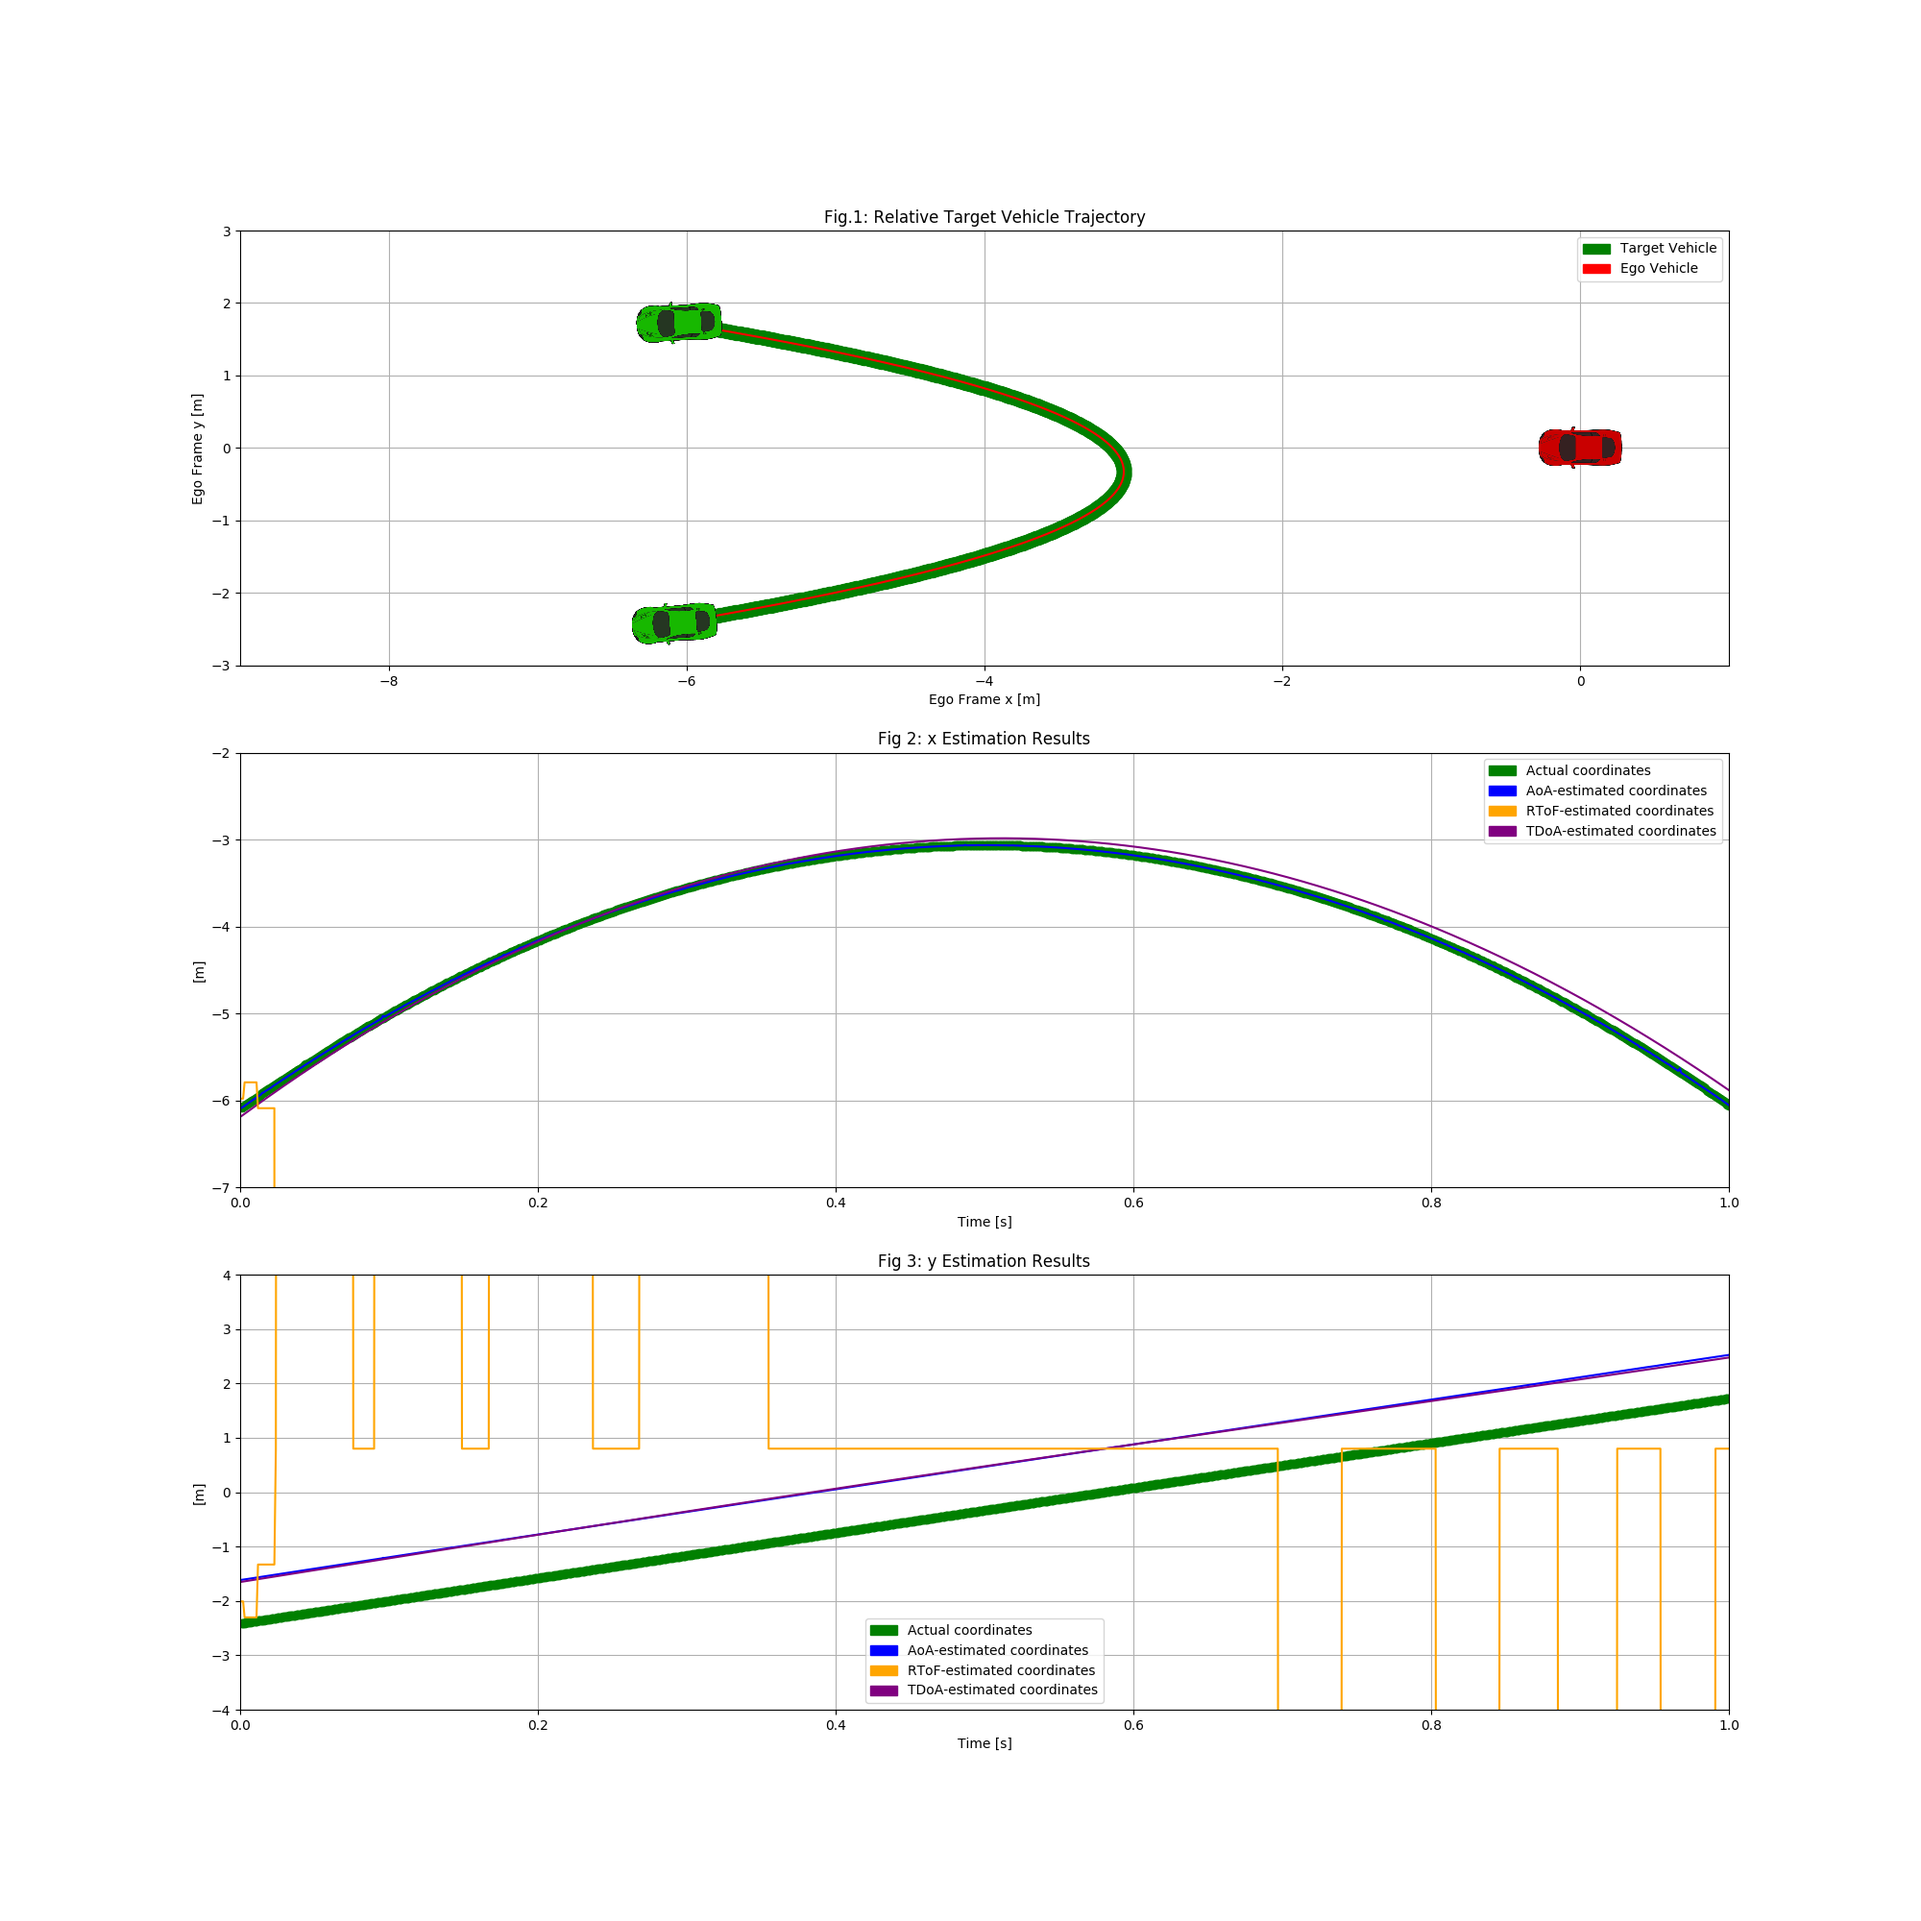
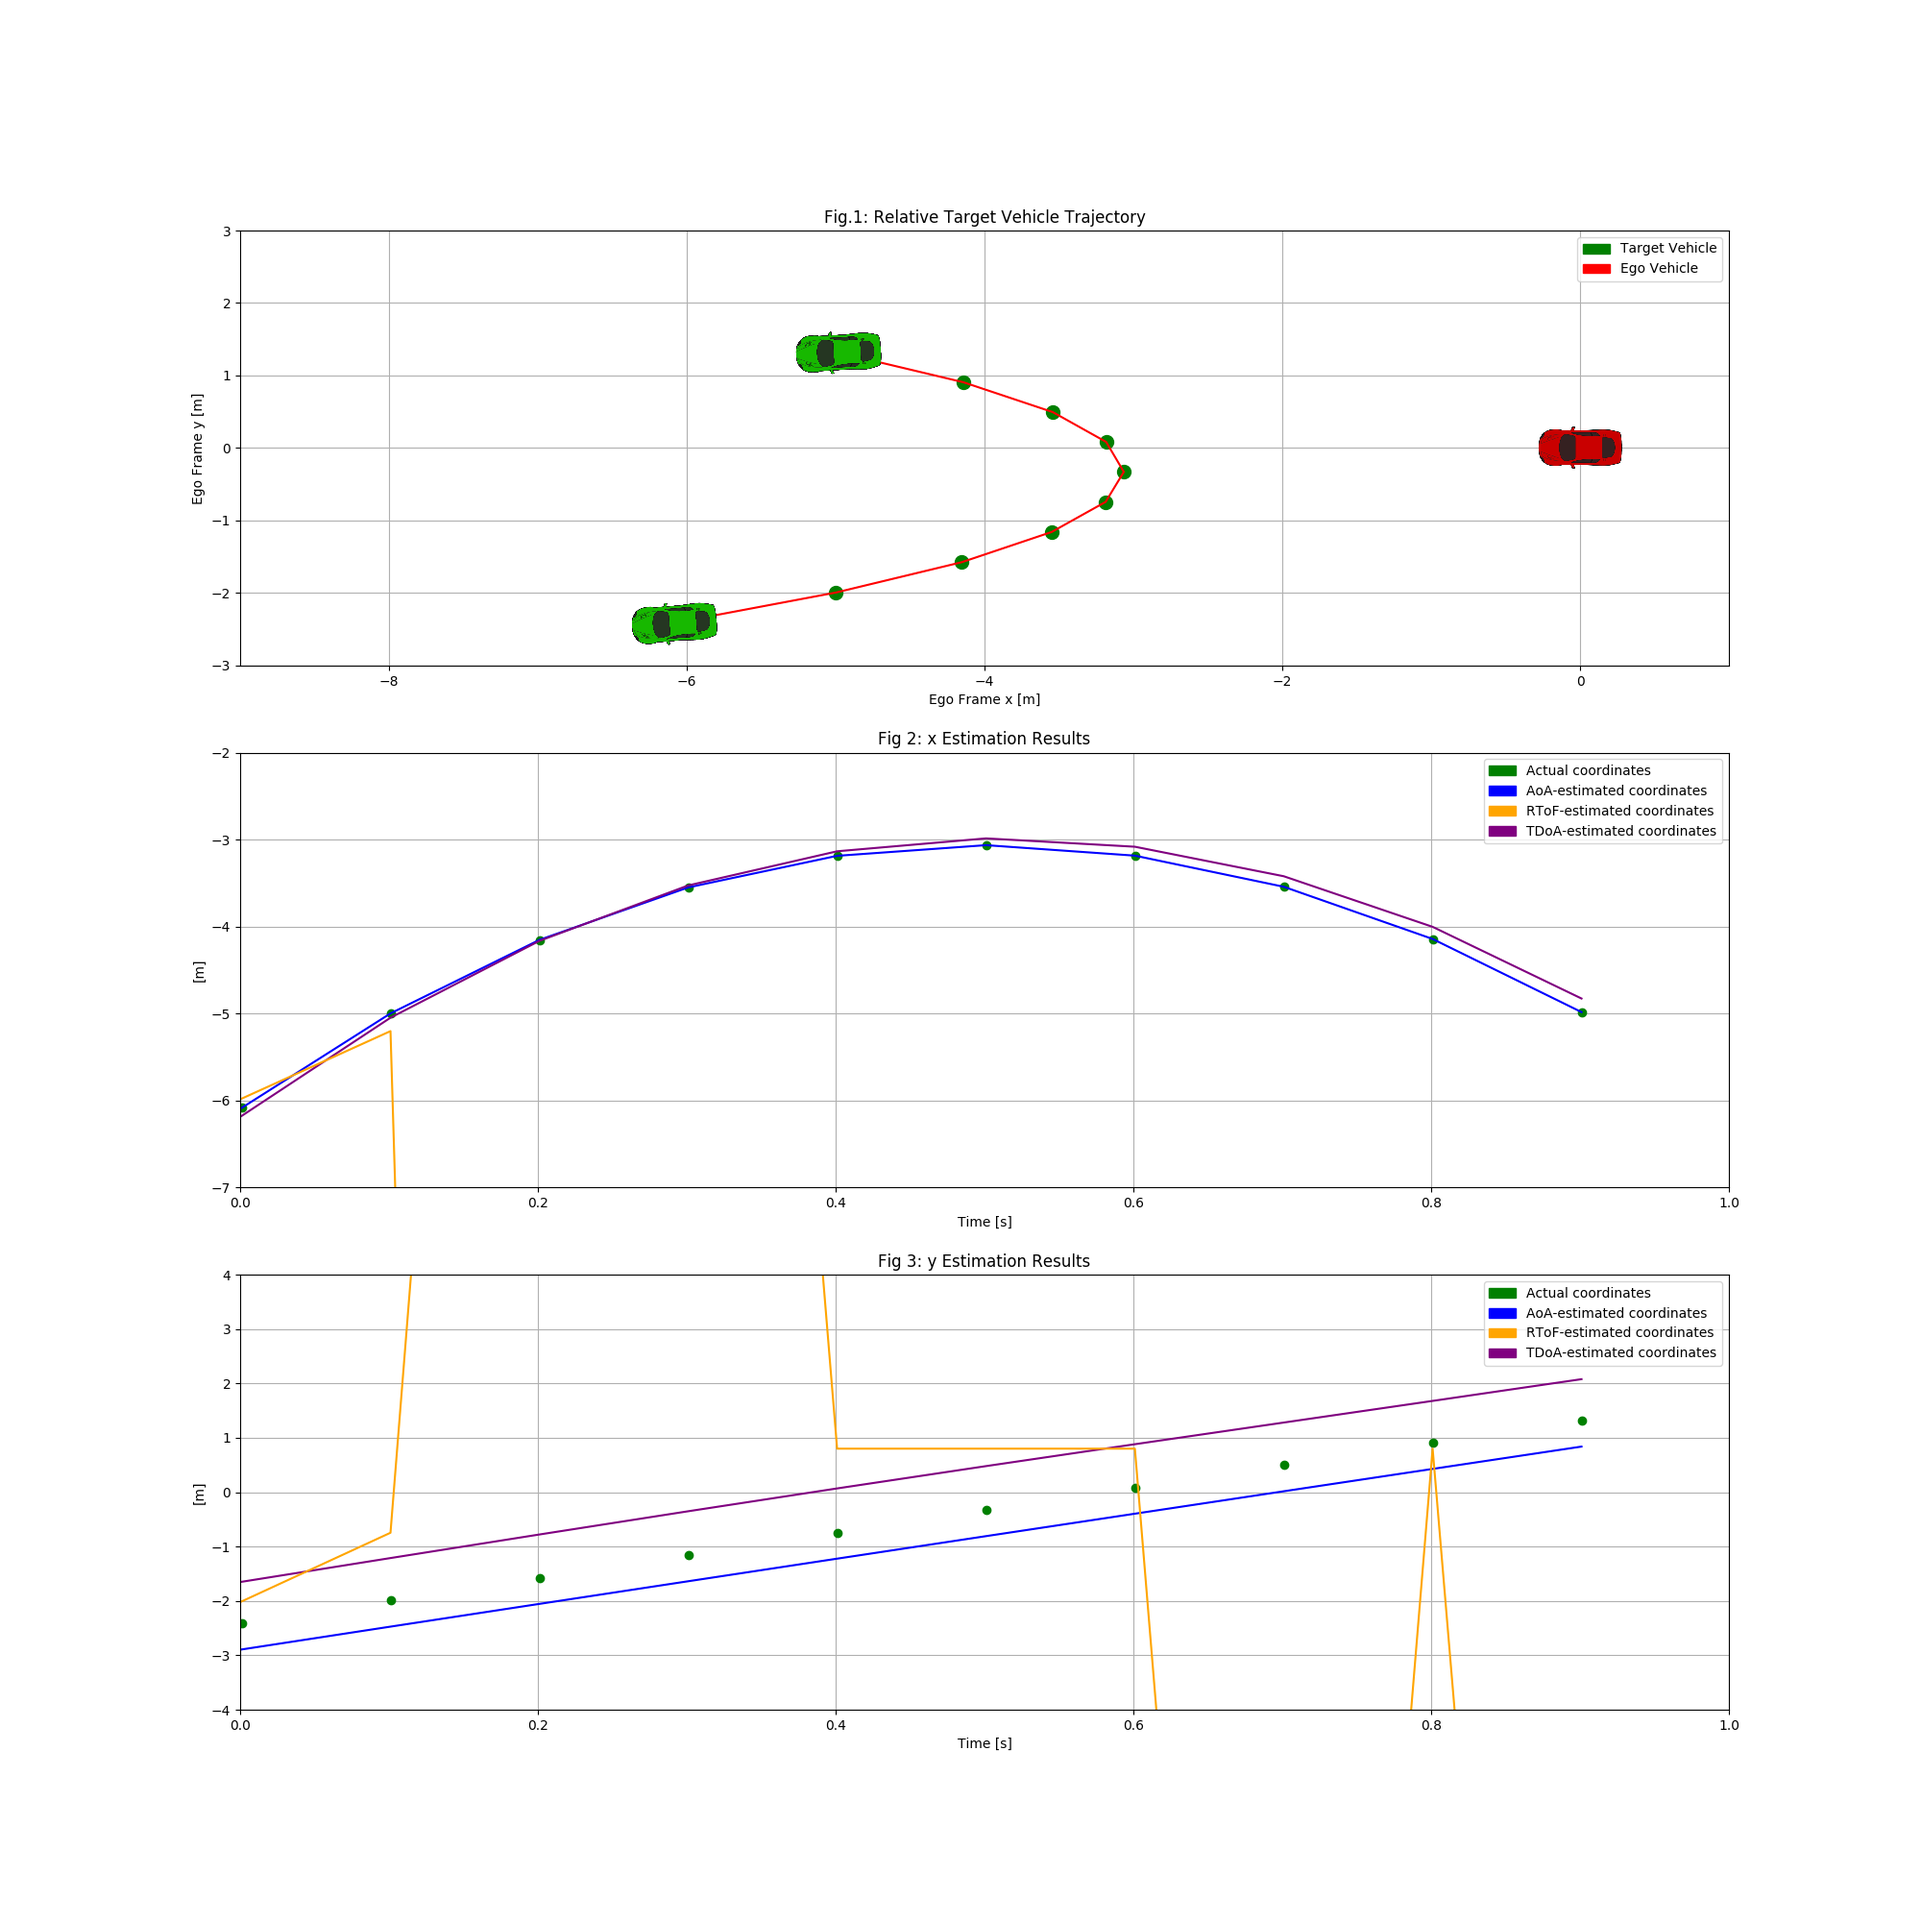
AoA method is changed. Have error on change_cords

diff --git a/VLP_methods/aoa.py b/VLP_methods/aoa.py
@@ -33,9 +33,9 @@ def translate(value, leftMin, leftMax, rightMin, rightMax):
 def change_cords(txpos):
     t_tx_pos = np.copy(txpos)
     t_tx_pos[0][0] = txpos[0][1]
-    t_tx_pos[1][0] = (-1 * txpos[0][0]) + 0.8
+    t_tx_pos[1][0] = (-1 * txpos[0][0])
     t_tx_pos[0][1] = txpos[1][1]
-    t_tx_pos[1][1] = (-1 * txpos[1][0]) + 0.8
+    t_tx_pos[1][1] = (-1 * txpos[1][0])
     return t_tx_pos
 
 
@@ -136,14 +136,14 @@ class Pose:
 
         diff_1 = theta_R_L[0][1] - theta_R_L[0][0]
         t_x_1 = self.vlc_obj.distancecar * (
-                0.5 + (math.sin(theta_R_L[0][0]) * math.cos(theta_R_L[0][1])) / (math.sin(diff_1)))
+                (self.vlc_obj.distancecar/2) + (math.sin(theta_R_L[0][0]) * math.cos(theta_R_L[0][1])) / (math.sin(diff_1)))
         t_y_1 = self.vlc_obj.distancecar * (
                 (math.cos(theta_R_L[0][0]) * math.cos(theta_R_L[0][1])) / (math.sin(diff_1)))
         # print("Transmitter-1 x pos is : ", self.t_x_1, ", y pos is : ", self.t_y_1)
 
         diff_2 = theta_R_L[1][1] - theta_R_L[1][0]
         t_x_2 = self.vlc_obj.distancecar * (
-                0.5 + (math.sin(theta_R_L[1][0]) * math.cos(theta_R_L[1][1])) / (math.sin(diff_2)))
+                (self.vlc_obj.distancecar/2) + (math.sin(theta_R_L[1][0]) * math.cos(theta_R_L[1][1])) / (math.sin(diff_2)))
         t_y_2 = self.vlc_obj.distancecar * (
                 (math.cos(theta_R_L[1][0]) * math.cos(theta_R_L[1][1])) / (math.sin(diff_2)))
         # print("Transmitter-2 x pos is : ", self.t_x_2, ", y pos is : ", self.t_y_2)

diff --git a/plot_simulation_data.py b/plot_simulation_data.py
@@ -34,7 +34,7 @@ for i in range(len(sm)):
 
     fig, (ax1, ax2, ax3) = plt.subplots(3, 1, figsize=(20, 20))
 
-    folder_name = 'GUI_data/1000_point/' + fl_name
+    folder_name = 'GUI_data/100_point/' + fl_name
     x, y = np.loadtxt(folder_name+'x.txt', delimiter=','), np.loadtxt(folder_name+'y.txt', delimiter=',')
     x_pose, y_pose = np.loadtxt(folder_name+'x_pose.txt', delimiter=','), np.loadtxt(folder_name+'y_pose.txt', delimiter=',')
     x_becha, y_becha = np.loadtxt(folder_name+'x_becha.txt', delimiter=','), np.loadtxt(folder_name+'y_becha.txt',
@@ -78,7 +78,7 @@ for i in range(len(sm)):
         ax1.plot(x[:, 0], y[:, 0], 'o', color='green', markersize=10)
         ax1.title.set_text('Fig.1: Relative Target Vehicle Trajectory')
         ax1.plot(x[:, 0], y[:, 0], '-', color='red', markersize=5)
-        mid = 500
+        mid = 4
         arrow_x = x[mid, 0]
         arrow_y = y[mid, 0]
         if fl_name == '/3/':

diff --git a/generate_simulation_data.py b/generate_simulation_data.py
@@ -202,7 +202,7 @@ for i in range(len(data_names)):
     np.savetxt('GUI_data/'+data_point+folder_name+'y_pose.txt', y_pose, delimiter=',')
     np.savetxt('GUI_data/'+data_point+folder_name+'time.txt', time_, delimiter=',')
     np.savetxt('GUI_data/'+data_point+folder_name+'rel_hdg.txt', rel_hdg, delimiter=',')
-
+    print(time_)
     profiler.disable()
     stats = pstats.Stats(profiler).sort_stats('ncalls')
     # stats.print_stats()
